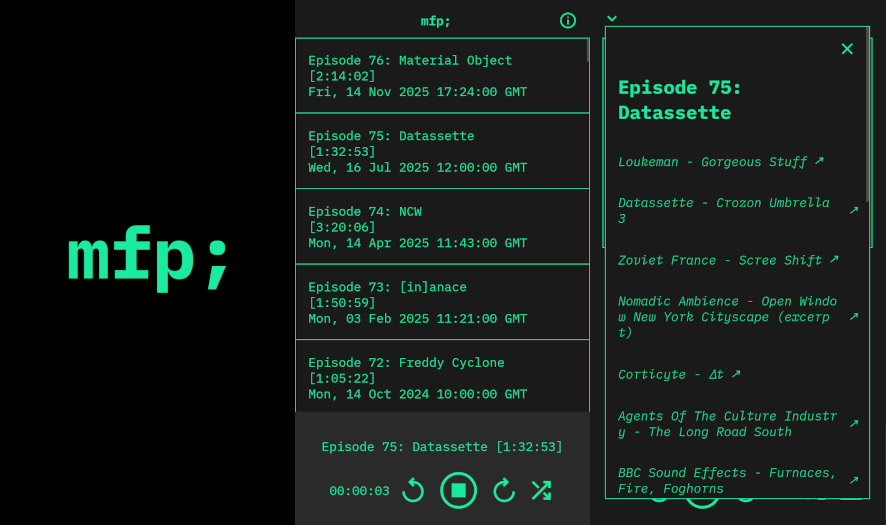
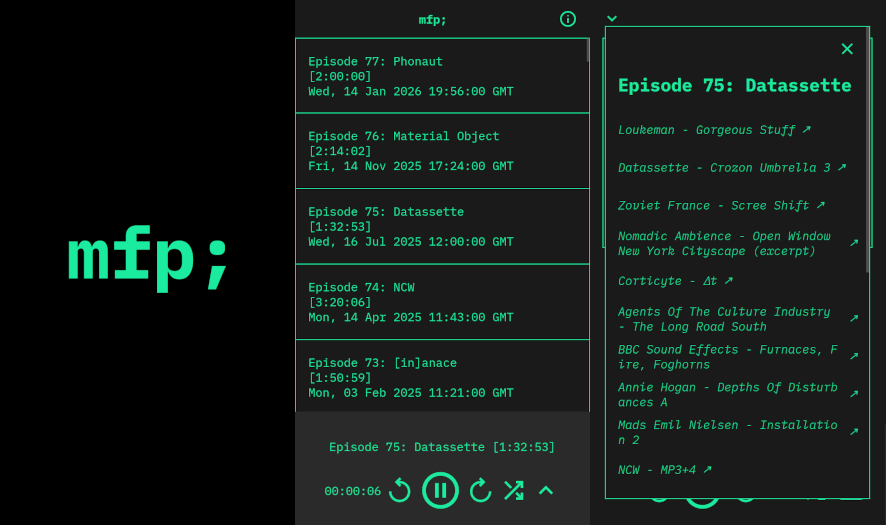
version 1.2.2
Update screenshot.

diff --git a/CHANGELOG.md b/CHANGELOG.md
@@ -1,11 +1,16 @@
 # Changelog
 
+## [1.2.2] - 2026-01-17
+
+### Changed
+
+- Update screenshot
+
 ## [1.2.1] - 2026-01-17
 
 ## Added
 
 - Fullscreen button to mini-player controls
-
 
 ### Changed
 
